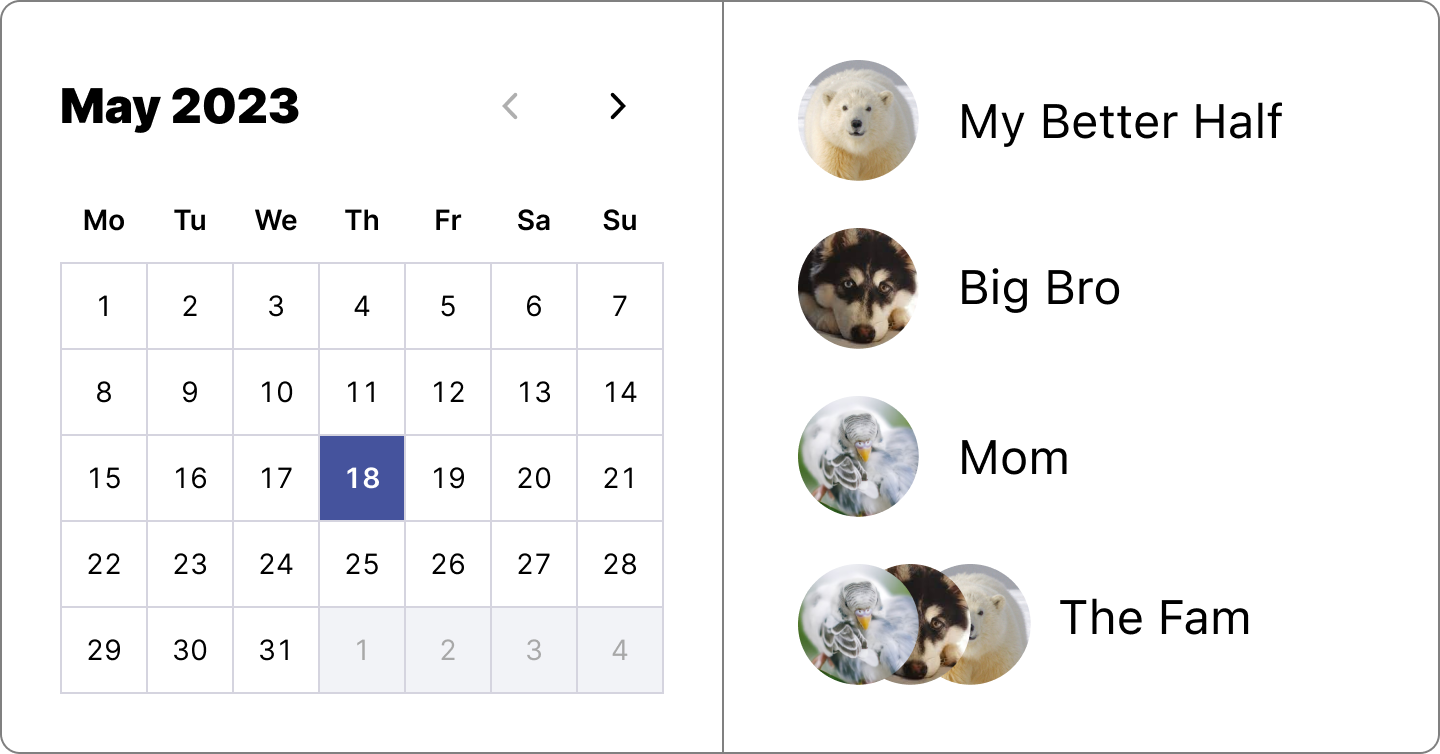
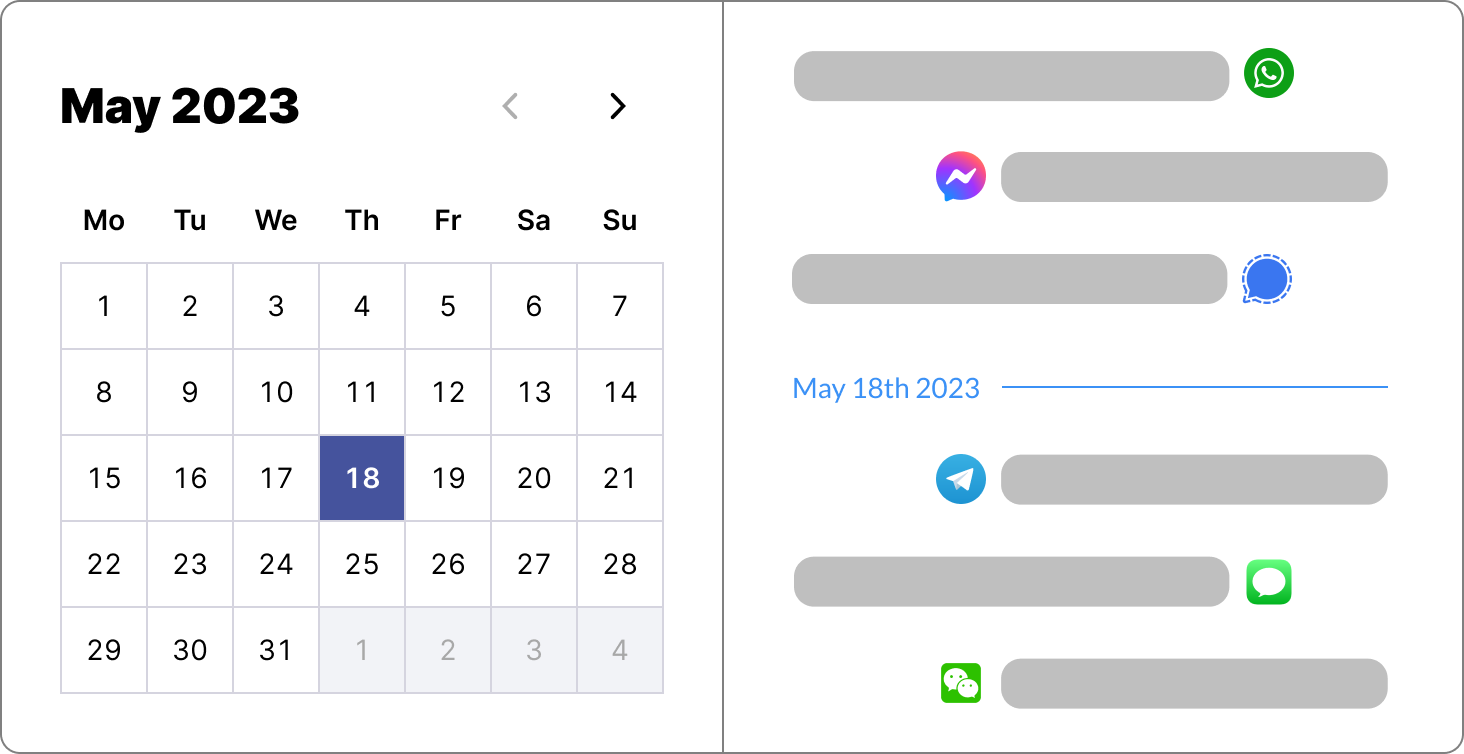
changes from figma

diff --git a/src/index.html b/src/index.html
@@ -59,12 +59,12 @@
         <div class="grid-x grid-margin-x">
           <div class="cell large-5 copy">
             <h1>Digital memories are&nbsp;forever</h1>
-            <h3>View exported messages across major chat apps beautifully in one place.</h3>
+            <h3>Consolidate your messages across major&nbsp;chat&nbsp;apps in one place, in one beautiful&nbsp;view.</h3>
             <a class="anchor" id="sign-up-anchor"></a>
             <h4>🎊 100% free during Beta 🎉</h4>
             <form name="hero-signup" method="POST" enctype="application/x-www-form-urlencoded" netlify>
               <input type="email" placeholder="Your email address..." name="email">
-              <button type="submit" class="button expanded light-button form-button">Sign Up for Beta</button>
+              <button type="submit" class="button expanded light-button form-button">Join the Waitlist</button>
             </form>
           </div>
           <div class="cell large-7 image">
@@ -113,13 +113,36 @@
           <div class="cell large-5 copy">
             <div class="grid-y grid-margin-y">
               <div class="cell">
-                <h3>Encrypt your imported chat history & own your data locally</h3>
+                <h3>Import chats, photos, and other media from your chat apps.</h3>
               </div>
               <div class="cell">
-                <h3>Nothing is sent over the web or stored on a server</h3>
+                <h3>Save your data locally. Nothing is sent over the web or stored on a server.</h3>
               </div>
               <div class="cell">
                 <a href="#sign-up-anchor" class="button dark-button" data-smooth-scroll>Import Memories</a>
+              </div>
+            </div>
+          </div>
+        </div>
+      </div>
+    </div>
+  </div>
+
+  <!-- SECTION: SEARCH -->
+  <div class="grid-y" id="search">
+    <div class="cell">
+      <div class="grid-container">
+        <div class="grid-x grid-margin-x align-middle">
+          <div class="cell large-7 image">
+            <img id="search_img" src="assets/search-example.png" alt="import chat from various apps">
+          </div>
+          <div class="cell large-5 copy">
+            <div class="grid-y grid-margin-y">
+              <div class="cell">
+                <h3>Find messages and media across all your chat histories using intelligent search.</h3>
+              </div>
+              <div class="cell">
+                <a href="#sign-up-anchor" class="button dark-button" data-smooth-scroll>Search Memories</a>
               </div>
             </div>
           </div>
@@ -139,10 +162,7 @@
           <div class="cell large-5 copy">
             <div class="grid-y grid-margin-y">
               <div class="cell">
-                <h3>View messages chronologically</h3>
-              </div>
-              <div class="cell">
-                <h3>Search by date for each contact or group</h3>
+                <h3>View messages chronologically & easily jump to a specific moment.</h3>
               </div>
               <div class="cell">
                 <a href="#sign-up-anchor" class="button light-button" data-smooth-scroll>View Memories</a>
@@ -168,10 +188,10 @@
           <div class="cell large-5 copy">
             <div class="grid-y grid-margin-y">
               <div class="cell">
-                <h3>Reminisce with memory movies</h3>
+                <h3>Reminisce with <b>movie mode</b>.</h3>
               </div>
               <div class="cell">
-                <h3>Experience the joy of old conversations all over again</h3>
+                <h3>Experience the joy of old conversations all over again.</h3>
               </div>
               <div class="cell">
                 <a href="#sign-up-anchor" class="button dark-button" data-smooth-scroll>Relive Memories</a>
@@ -190,7 +210,7 @@
         <div class="cell">
           <div class="grid-y">
             <div class="cell">
-              <h2>Sign Up for FREE Beta</h2>
+              <h2>Join the Waitlist for FREE Beta</h2>
             </div>
             <div class="cell">
               <form name="footer-signup" method="POST" enctype="application/x-www-form-urlencoded" netlify>
@@ -199,7 +219,7 @@
                     <input type="email" placeholder="Your email address..." name="email">
                   </div>
                   <div class="cell">
-                    <button type="submit" class="button light-button form-button">Sign Up</button>
+                    <button type="submit" class="button light-button form-button">Join the Waitlist</button>
                   </div>
                 </div>
               </form>

diff --git a/src/styles.css b/src/styles.css
@@ -213,6 +213,21 @@ div#import img#import_img {
     max-height: 400px;
 }
 
+/* section: search */
+div#search {
+    background-color: var(--white);
+    color: var(--dark-purple);
+    padding: 100px 0px 100px 0px;
+}
+
+div#search div.image {
+    text-align: center;
+}
+
+div#search img#search_img {
+    max-height: 500px;
+}
+
 /* section: calendar */
 div#calendar {
     background-color: var(--rose);
